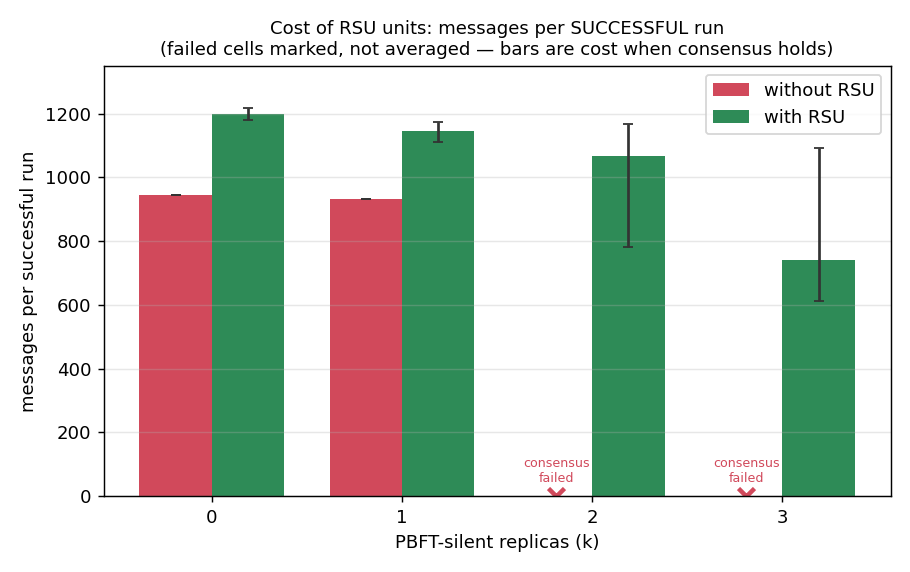
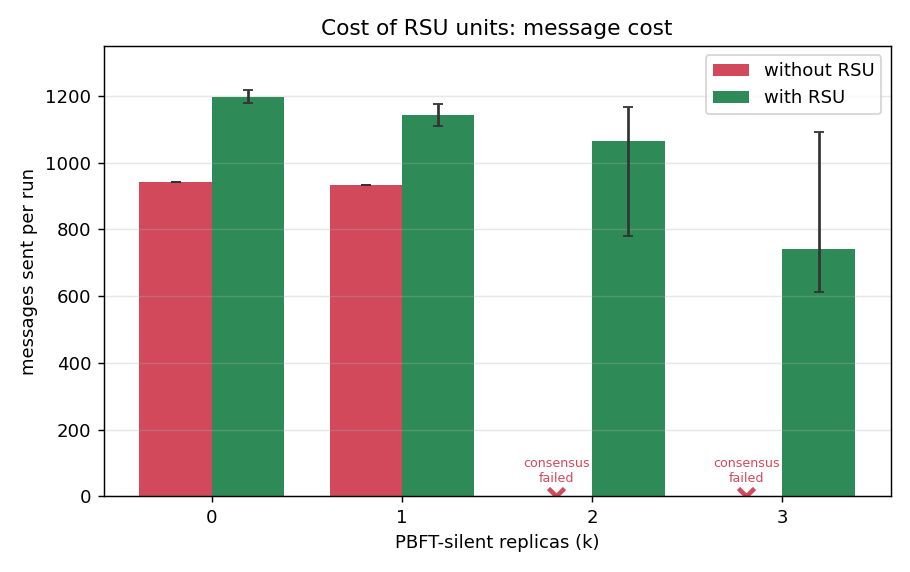
Simplify 4-veh overhead plot title to 'message cost'
Retitled to 'Cost of RSU units: message cost' and y-label to 'messages sent per
run', dropping the 'successful run' wording per request. Method unchanged — bars are
still committed-runs-only with failed cells marked, just simpler labels.

diff --git a/benchmarks/rsu_ablation/analyze_ablation.py b/benchmarks/rsu_ablation/analyze_ablation.py
@@ -222,10 +222,8 @@ def main():
     draw(-1, "off_mok", "off_nok", "off_ntot", "off_lo", "off_hi", "#d1495b", "without RSU")
     draw(+1, "on_mok",  "on_nok",  "on_ntot",  "on_lo",  "on_hi",  "#2e8b57", "with RSU")
     ax.set_xlabel("PBFT-silent replicas (k)")
-    ax.set_ylabel("messages per successful run")
-    ax.set_title("Cost of RSU units: messages per SUCCESSFUL run\n"
-                 "(failed cells marked, not averaged — bars are cost when consensus holds)",
-                 fontsize=10)
+    ax.set_ylabel("messages sent per run")
+    ax.set_title("Cost of RSU units: message cost")
     ax.set_xticks(xs); ax.set_ylim(bottom=0, top=1350)
     ax.legend(loc="upper right"); ax.grid(alpha=.3, axis="y")
     fig.tight_layout(); fig.savefig(os.path.join(FIGS, "4veh_overhead.png"), dpi=130)
